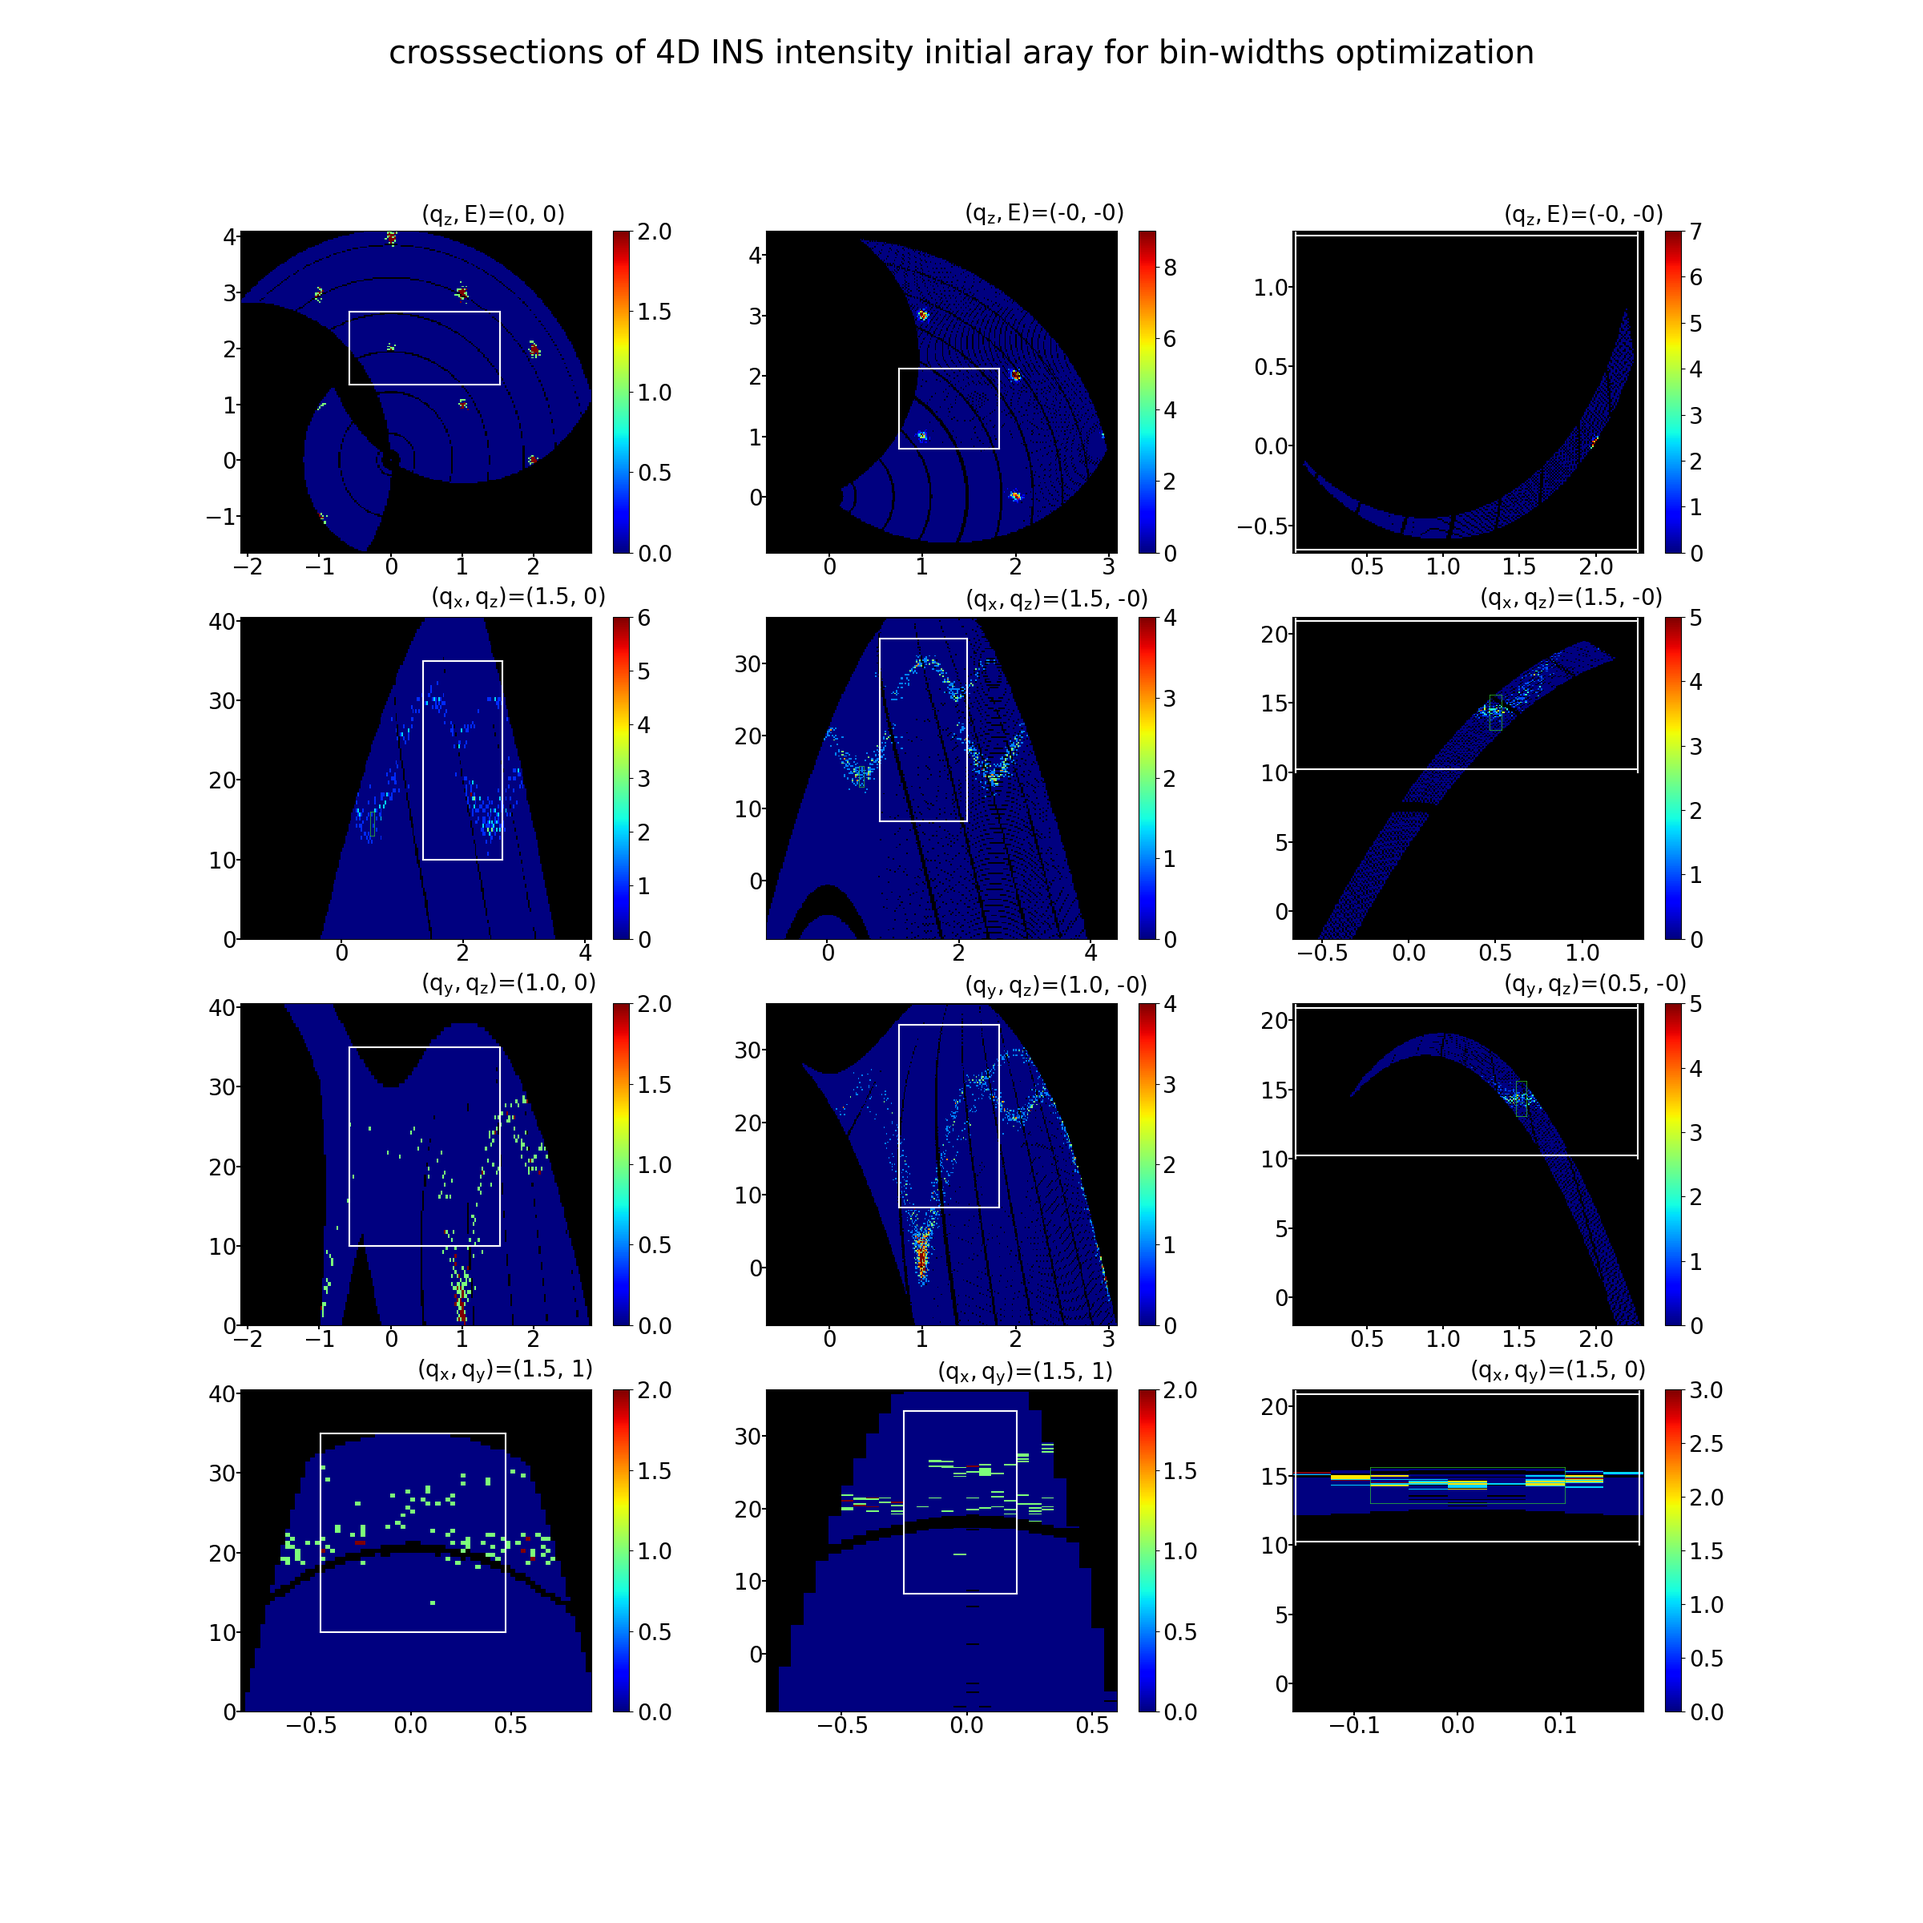
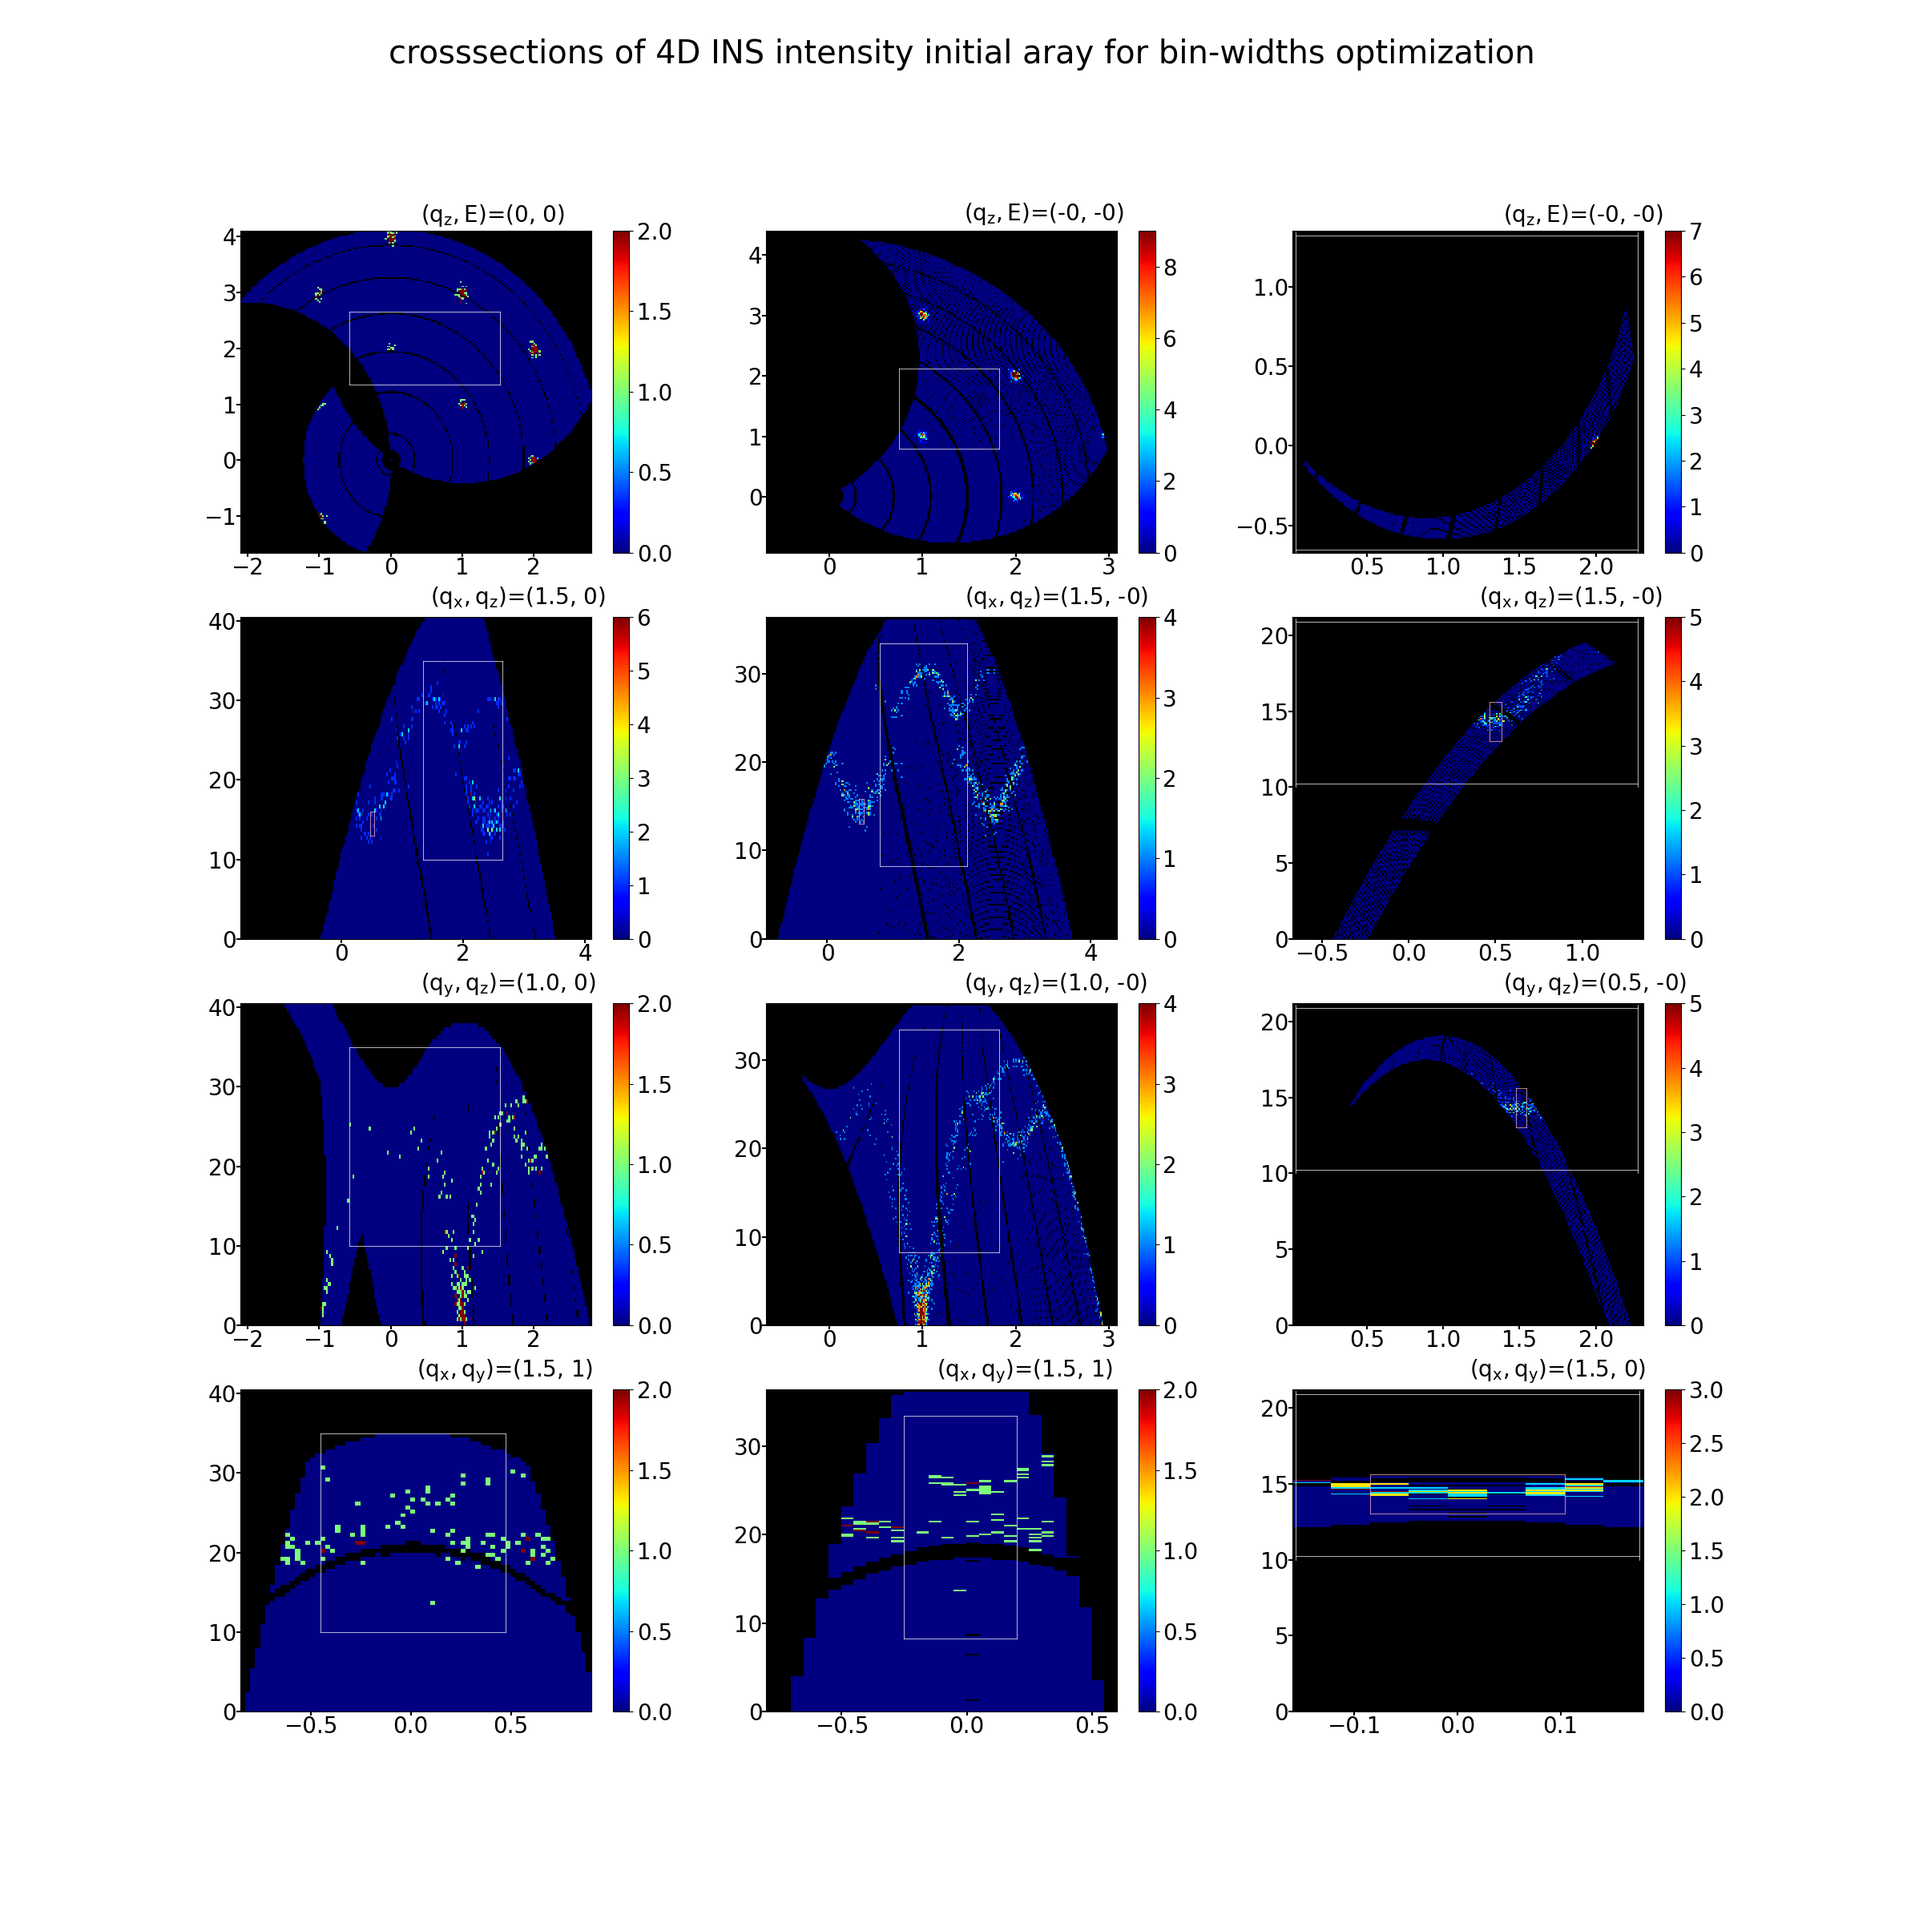
crosssection_of_4ddata_class plotranges added

diff --git a/crosssection_of_4ddata_class.py b/crosssection_of_4ddata_class.py
@@ -15,7 +15,7 @@ class CROSS:
     def __init__(self, outfile, orthotope_lims, wholeranges, devs,
                  cpos, hvlofs=False, binwidths=np.ones(4),
                  common_lims=None, filled=False, mb=0.3, showorthob=True,
-                 vivid=False):
+                 vivid=False, plotranges=None):
         self.outfile = outfile
         self.orthotope_lims = orthotope_lims
         self.wholeranges = wholeranges
@@ -28,7 +28,11 @@ class CROSS:
         self.mb = mb
         self.showorthob = showorthob
         self.vivid = vivid
-    
+        if plotranges.any():
+            self.plotranges = plotranges
+        else:
+            self.plotranges = wholeranges
+
     def get_data(self):
         if self.filled:
             self.read_data()
@@ -81,7 +85,8 @@ class CROSS:
         self.plotter(lims_int[0, :], lims_int[1, :], '$q_x(rlu)$',
                      '$q_y(rlu)$', self.data4[:, :, self.cpos[2], self.cpos[3]],
                      4, 3, cnum, self.devs[0], self.wholeranges[0, :],
-                     self.wholeranges[1, :], cposinfo, clims=clims)
+                     self.wholeranges[1, :], self.plotranges[0, :],
+                     self.plotranges[1, :], cposinfo, clims=clims)
         cposinfo = '$(q_x, q_z)$' + "=({:.1f}, {:.0f})".format(
                    cposval[0], cposval[2])
         if self.cpos[2] >= clims_int[2, 0] and self.cpos[2] <= clims_int[2, 1]\
@@ -93,7 +98,8 @@ class CROSS:
         self.plotter(lims_int[1, :], lims_int[3, :], '$q_y(rlu)$', 'E(meV)',
                      self.data4[self.cpos[0], :, self.cpos[2], :],
                      4, 3, cnum+3, self.devs[1], self.wholeranges[1, :],
-                     self.wholeranges[3, :], cposinfo, clims=clims)
+                     self.wholeranges[3, :], self.plotranges[1, :],
+                     self.plotranges[3, :], cposinfo, clims=clims)
         cposinfo = '$(q_y, q_z)$' + "=({:.1f}, {:.0f})".format(
                    cposval[1], cposval[2])
         if self.cpos[2] >= clims_int[2, 0] and self.cpos[2] <= clims_int[2, 1]\
@@ -105,7 +111,8 @@ class CROSS:
         self.plotter(lims_int[0, :], lims_int[3, :], '$q_x(rlu)$', 'E(meV)',
                      self.data4[:, self.cpos[1], self.cpos[2], :],
                      4, 3, cnum+6, self.devs[2], self.wholeranges[0, :],
-                     self.wholeranges[3, :], cposinfo, clims=clims)
+                     self.wholeranges[3, :], self.plotranges[0, :],
+                     self.plotranges[3, :], cposinfo, clims=clims)
         cposinfo = '$(q_x, q_y)$' + "=({:.1f}, {:.0f})".format(
                    cposval[0], cposval[1])
         if self.cpos[0] >= clims_int[0, 0] and self.cpos[0] <= clims_int[0, 1]\
@@ -117,7 +124,8 @@ class CROSS:
         self.plotter(lims_int[2, :], lims_int[3, :], '$q_z(rlu)$', 'E(meV)',
                      self.data4[self.cpos[0], self.cpos[1], :, :],
                      4, 3, cnum+9, self.devs[2], self.wholeranges[2, :],
-                     self.wholeranges[3, :], cposinfo, clims=clims)
+                     self.wholeranges[3, :], self.plotranges[2, :],
+                     self.plotranges[3, :], cposinfo, clims=clims)
     
     def create_cmap(self):
         if not self.vivid:
@@ -149,38 +157,33 @@ class CROSS:
             self.custom_cmap.set_under(color='k')
 
     def plotter(self, xlim, ylim, lx, ly, data, vn, hn, cn, dev, xr, yr,
-                cposinfo, clims=None):
+                pxr, pyr, cposinfo, clims=None):
         ax = self.fig.add_subplot(vn,  hn, cn)
 
         u = np.linspace(xr[0], xr[1], data.shape[0]+1)
         v = np.linspace(yr[0], yr[1], data.shape[1]+1)
         X, Y = np.meshgrid(u, v)
 
-        #if not self.vivid:
         c = ax.pcolor(X, Y, np.transpose(data), vmin=0,
                       vmax=int(np.max(data[xlim[0]:xlim[1], ylim[0]:ylim[1]])
                                / dev),
                       cmap=self.custom_cmap)
-        if ly == 'E(meV)':
+        # pxr and pyr, energy ranges in the plot are modified by the following if 
+        if np.sum(np.abs(xr - pxr)) > 0.000001 or\
+           np.sum(np.abs(yr - pyr)) > 0.000001:
+            ax.set_xlim(pxr[0], pxr[1])
+            ax.set_ylim(pyr[0], pyr[1])
+            ax.text((pxr[1]+pxr[0])*.6, pyr[1]*1.04, cposinfo)
+        elif ly == 'E(meV)':
             ax.set_ylim(0, yr[1])
             delta = int(round(-yr[0]/((self.wholeranges[3, 1] -
                               self.wholeranges[3, 0])/data.shape[1] /
                               self.binwidths[3])))
+            ax.text((xr[1]+xr[0])*.6, yr[1]*1.04, cposinfo)
         else:
             delta = 0
+            ax.text((xr[1]+xr[0])*.6, yr[1]*1.04, cposinfo)
         self.fig.colorbar(c, ax=ax)
-        #else:
-        #    zm = np.ma.masked_where(data >= 0, data).T
-        #    ax.pcolor(X, Y, np.transpose(data), vmin=0,
-        #              vmax=int(np.max(data[xlim[0]:xlim[1], ylim[0]:ylim[1]])
-        #                       / dev),
-        #              cmap='jet')
-        #    cmap = get_cmap("gist_gray")
-        #    cmap.set_under(color='white')
-        #    ax.pcolor(X, Y, zm, color='k', cmap=cmap)
-
-        #ax.set_xlabel(lx, fontsize=12)
-        #ax.set_ylabel(ly, fontsize=12)
         if self.hvlofs:
             frac = 0.01
             yoff = float(data.shape[1])*frac
@@ -234,7 +237,6 @@ class CROSS:
                        labelbottom=True, bottom=True, top=False, left=True,
                        right=False, labelleft=True, width=1.5)
         #ax.axis('tight')
-        ax.text((xr[1]+xr[0])*.6, yr[1]*1.04, cposinfo)
 
     def create_fig(self, title=None, xdim=8.8, ydim=8.8):
         self.create_cmap()

diff --git a/crosssection_of_hist_for_advsoft_only_4_using_class.py b/crosssection_of_hist_for_advsoft_only_4_using_class.py
@@ -1,0 +1,59 @@
+#!/usr/bin/env python
+import numpy as np
+import matplotlib.pyplot as plt
+import sys
+sys.path.append('/home/kazu/ktpro/')
+import crosssection_of_4ddata_class as c4c
+plt.rcParams.update({'font.size': 20})
+
+
+
+def run():
+    head = "/home/kazu/desktop/"
+    tail = "hist.hdf5"
+    outfile = head + "200204/fine/hourbyhour/10h/" + tail
+
+    orthotope_lims = np.array([[120, 172], [61, 145], [16, 53], [20, 70]])*1.0
+    binwidths = np.array([4, 4, 5, 3])*1.
+    wholeranges = np.array([[-1.65, 4.1], [-2.1, 2.8], [-0.85, 0.9], [0, 40.5]]
+                           )
+    plotranges = np.array([[-0.675, 2.8], [-0.925, 3.8], [-0.8, 0.60],
+                          [0, 36.4]])
+    devs = np.array([1, 1, 1])
+    cpos = np.array([27, 36, 7, 0])
+    #cpos = np.array([107, 145, 34, 0])
+
+    pro = c4c.CROSS(outfile, orthotope_lims, wholeranges, devs, cpos,
+                    hvlofs=False, binwidths=binwidths, showorthob=False,
+                    plotranges=plotranges, vivid=True)
+    pro.create_fig(xdim=24, ydim=24)
+    pro.get_data()
+    pro.plot_crosssection(1, xyyx=True)
+
+    pro.outfile = head + "200522/Ei42/veryfineq/14m/" + tail
+    pro.orthotope_lims = np.array([[114, 200], [69, 122], [11, 20],
+                                  [81, 207]])*1.0
+    pro.binwidths = np.array([3, 2, 2, 4])*1.
+    pro.wholeranges = np.array([[-0.675, 3.0875], [-0.925, 4.400],
+                                [-0.8, 0.60], [-8.0, 36.4]])
+    pro.cpos = np.array([58, 39, 8, 10])
+
+    pro.get_data()
+    pro.plot_crosssection(2)
+
+    #pro.outfile = head + "200522/Ei24/fineq/26m/" + tail
+    #pro.orthotope_lims = np.array([[0, 228], [0, 202], [0, 9], [150, 289]])*1.0
+    #pro.binwidths = np.array([2, 3, 2, 4])*1.
+    #pro.wholeranges = np.array([[0.01, 2.31], [-0.67, 1.35], [-0.16, 0.18],
+    #                            [-2.0, 21.20]])
+    #pro.cpos = np.array([75, 39, 2, 6])
+    #pro.hvlofs=True
+#
+#    pro.get_data()
+#    pro.plot_crosssection(3)
+    plt.savefig("fig_adv_hist_with_labels_only4.png")
+    plt.subplots_adjust(wspace=0.1, hspace=0.37)
+    plt.show()
+
+
+run()
